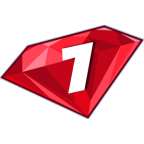
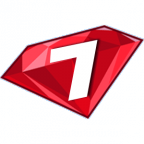
now a 7 day program!

Changed region(s): [[0.3333, 0.25, 0.6944, 0.7222]]

diff --git a/public/js/javascript.js b/public/js/javascript.js
@@ -1,7 +1,7 @@
 // remove the static text for search engines
 document.getElementById("static").style.display = "none";
 
-var sevenDayBootcamp;		// kept outside for console inspection
+var app;		// kept outside for console inspection
 
 $.fn.ready(function(){
 
@@ -13,7 +13,7 @@ $.fn.ready(function(){
     return false;
   }
 
-  sevenDayBootcamp = {
+  app = {
     appname: "Seven Day HTML/CSS Bootcamp",
     structure: "",
     style: "",
@@ -30,139 +30,92 @@ $.fn.ready(function(){
       },
     fn: {
      setStructure: function(_structure) {
-        sevenDayBootcamp.structure = _structure || sevenDayBootcamp.structure;
+        app.structure = _structure || app.structure;
       },
       setStyle: function(_style) {
-        sevenDayBootcamp.style = _style || sevenDayBootcamp.style;
+        app.style = _style || app.style;
       },
-        // sets sevenDayBootcamp props, fills editors, renders output
+        // sets app props, fills editors, renders output
       useStructureStyle: function(settings) {
         if (typeof settings !== "object") { return false; }
         if (!settings.structure || !settings.style) { return false; }
-        sevenDayBootcamp.fn.setStructure(settings.structure);
-        sevenDayBootcamp.fn.setStyle(settings.style);
-        sevenDayBootcamp.editors.structure.getSession().setValue(settings.structure);
-        sevenDayBootcamp.editors.style.getSession().setValue(settings.style);
+        app.fn.setStructure(settings.structure);
+        app.fn.setStyle(settings.style);
+        app.editors.structure.getSession().setValue(settings.structure);
+        app.editors.style.getSession().setValue(settings.style);
         return true;
       },
       renderOutput: function(sWhat){
-        sevenDayBootcamp.throttle.render = sevenDayBootcamp.throttle.render || setTimeout(function(){
+        app.throttle.render = app.throttle.render || setTimeout(function(){
           sWhat = sWhat || "all";
           if ((sWhat === "html") || (sWhat === "all")) {
-            sevenDayBootcamp.$.output.body.html(
-                sevenDayBootcamp.structure
+            app.$.output.body.html(
+                app.structure
                 );
-            var sTitle = sevenDayBootcamp.$.output.body.find("h1:first").text().trim();
-            document.title = sevenDayBootcamp.appname;
-            if (sTitle && sTitle !== sevenDayBootcamp.appname) { document.title +=  " - " + sTitle; }
+            var sTitle = app.$.output.body.find("h1:first").text().trim();
+            document.title = app.appname;
+            if (sTitle && sTitle !== app.appname) { document.title +=  " - " + sTitle; }
           }
           if ((sWhat === "style") || (sWhat === "all")) {
-            sevenDayBootcamp.$.output.head.html(
-                $("<style />").html(sevenDayBootcamp.style)
+            app.$.output.head.html(
+                $("<style />").html(app.style)
                 );
           }
-          sevenDayBootcamp.throttle.render = undefined;
+          app.throttle.render = undefined;
         }, 500);
       },
-      saveToLocal: function(){
+      saveToLocal: function(day){
         var obj = {
-          structure: sevenDayBootcamp.editors.structure.getSession().getValue(),
-          style: sevenDayBootcamp.editors.style.getSession().getValue()
+          structure: app.editors.structure.getSession().getValue(),
+          style: app.editors.style.getSession().getValue()
         };
-        localStorage.sevenDayBootcamp = JSON.stringify(obj);
-        return localStorage.sevenDayBootcamp;
+        localStorage.setItem(day, JSON.stringify(obj));
+        return localStorage.getItem(day);
       },
-      getLocal: function() {
-        if (localStorage.sevenDayBootcamp) {
-          sevenDayBootcamp.fn.useStructureStyle($.parseJSON(localStorage.sevenDayBootcamp));
+      getLocal: function(day) {
+        data = localStorage.getItem(day);
+        if (data) {
+          app.fn.useStructureStyle($.parseJSON(data));
           return true;
         }
         return false;
       },
-      getDefaults: function(){
-        // probably not the cleanest way to do this...
+      getData: function(day){
         var iMilli = +new Date(), def = {};
-        function areWeThereYet() {
+        function load() {
           if (def.structure && def.style) {
-            sevenDayBootcamp.fn.useStructureStyle(def);
+            app.fn.useStructureStyle(def);
           }
         }
-        $.get("defaults/structure.html?" + iMilli, function(resp) {
+        $.get("/data/"+day+".html?" + iMilli, function(resp) {
           def.structure = resp;
-          areWeThereYet();
+          load();
         }, "text");
-        $.get("defaults/style.css?" + iMilli, function(resp) {
+        $.get("/data/"+day+".css?" + iMilli, function(resp) {
           def.style = resp;
-          areWeThereYet();
+          load();
         }, "text");
         return true;
       },
-      reset: function(){
-        delete localStorage.sevenDayBootcamp;
-        sevenDayBootcamp.fn.getDefaults();
+      reset: function(day){
+        delete localStorage.getItem(day);
+        app.fn.getData(day);
       },
       exportUri: function(){
         // will open a data URI in a new window, some browsers may cut it off...
-        var sTitle = sevenDayBootcamp.$.output.body.find("h1:first").text().trim();
+        var sTitle = app.$.output.body.find("h1:first").text().trim();
         var sUrl = "data:text/html," +
           encodeURIComponent(
               (sTitle ? "<title>" + sTitle + "</title> " : "") +
-              "<body>" + sevenDayBootcamp.structure + "</body> " +
-              "<style>" + sevenDayBootcamp.style + "</style> " +
+              "<body>" + app.structure + "</body> " +
+              "<style>" + app.style + "</style> " +
               "<form action='" + document.location.protocol + "//" + document.location.host + document.location.pathname + "' method='get' style='display:none'>" + 
-              "<textarea name='structure'>" + sevenDayBootcamp.editors.structure.getSession().getValue() + "</textarea> " +
-              "<textarea name='style'>" + sevenDayBootcamp.editors.style.getSession().getValue() + "</textarea> " +
+              "<textarea name='structure'>" + app.editors.structure.getSession().getValue() + "</textarea> " +
+              "<textarea name='style'>" + app.editors.style.getSession().getValue() + "</textarea> " +
               "</form> " +
               "<script src='" + document.location.protocol + "//" + document.location.host + document.location.pathname + "js/external.js'></script>"
               );
         window.open(sUrl);
-      },
-      getFromUrl: function(){
-        // http://stackoverflow.com/questions/439463/how-to-get-get-and-post-variables-with-jquery
-        var params = (function(){
-          var qs = document.location.search.split("+").join(" ");
-          var params = {}, tokens, re = /[?&]?([^=]+)=([^&]*)/g;
-          while (tokens = re.exec(qs)) {
-            params[decodeURIComponent(tokens[1])] = decodeURIComponent(tokens[2]);
-          }
-          return params;
-        }());
-        if (!params.structure || !params.style) { return false; }
-        sevenDayBootcamp.fn.useStructureStyle(params);
-        // clean up URL
-        if (Modernizr.history) {
-          history.replaceState(null, null, document.location.pathname);
-        }
-        return true;
-      },
-      fileDragOver: function (evt) {
-        evt.stopPropagation();
-          evt.preventDefault();
-          $body.addClass("dropit");
-      },
-      fileDrop: function (evt) {
-        evt.stopPropagation();
-          evt.preventDefault();
-          var files = evt.dataTransfer.files;
-          for (var i = 0, f; f = files[i]; i++) {
-            var reader = new FileReader();
-              reader.onload = (function (theFile) {
-                return function (e) {
-                  // clean this up!
-                  if (theFile.name.indexOf(".html") > -1) {
-                    sevenDayBootcamp.editors.structure.getSession().setValue(e.target.result);
-                    sevenDayBootcamp.fn.setStructure(e.target.result);
-                  } else if (theFile.name.indexOf(".css") > -1) {
-                    sevenDayBootcamp.editors.style.getSession().setValue(e.target.result);
-                    sevenDayBootcamp.fn.setStyle(e.target.result);
-                  }
-                };
-              })(f);
-            reader.readAsText(f);
-          }
-        sevenDayBootcamp.fn.renderOutput();
-        sevenDayBootcamp.fn.saveToLocal();
-        $body.removeClass("dropit");
       }
     } // fn
   };
@@ -172,74 +125,72 @@ $.fn.ready(function(){
   { name: "structure", id: "preStructure", mode: require("ace/mode/html").Mode },
   { name: "style", id: "preStyle", mode: require("ace/mode/css").Mode }
   ];
+  var day = function() {
+    var d;
+    if(location.href.split("?").length>1) {
+      d = location.href.split("?")[1].split("=")[1];
+    }
+    return d || 1
+  }()
+
   $.each(editors, function (iEditor, editor) {
-    var $editor = sevenDayBootcamp.$[editor.name] = $("#" + editor.id);
+    var $editor = app.$[editor.name] = $("#" + editor.id);
     var oEditor = ace.edit(editor.id);
     oEditor.setTheme("ace/theme/twilight");
     oEditor.getSession().setMode(new editor.mode);
     oEditor.renderer.setShowGutter(false);
     oEditor.renderer.setShowPrintMargin(false);
     oEditor.getSession().setUseSoftTabs(true);
-    sevenDayBootcamp.editors[editor.name] = oEditor;
+    app.editors[editor.name] = oEditor;
     oEditor.on("focus", function(){ $editor.addClass("focus"); });
     oEditor.on("blur", function(){ $editor.removeClass("focus"); });
   });
 
-  // attempt: fill from URL, get localStorage, or load defaults; then render
-  if (!sevenDayBootcamp.fn.getFromUrl()) {
-    if (!sevenDayBootcamp.fn.getLocal()) {
-      sevenDayBootcamp.fn.getDefaults();
-    }
+  // attempt: fill from localStorage, or load data; then render
+  if (!app.fn.getLocal(day)) {
+    app.fn.getData(day);
   }
-  sevenDayBootcamp.fn.renderOutput();
+  app.fn.renderOutput();
 
   // bind change events (not perfect: doesn't know paste, deleting)
   // could be abstracted more
-  sevenDayBootcamp.editors.structure.getSession().on('change', function() {
-    sevenDayBootcamp.fn.setStructure(sevenDayBootcamp.editors.structure.getSession().getValue());
-    sevenDayBootcamp.fn.renderOutput("html");
-    sevenDayBootcamp.fn.saveToLocal();
+  app.editors.structure.getSession().on('change', function() {
+    app.fn.setStructure(app.editors.structure.getSession().getValue());
+    app.fn.renderOutput("html");
+    app.fn.saveToLocal();
   });
-  sevenDayBootcamp.editors.style.getSession().on('change', function() {
-    sevenDayBootcamp.fn.setStyle(sevenDayBootcamp.editors.style.getSession().getValue());
-    sevenDayBootcamp.fn.renderOutput("style");
-    sevenDayBootcamp.fn.saveToLocal();
+  app.editors.style.getSession().on('change', function() {
+    app.fn.setStyle(app.editors.style.getSession().getValue());
+    app.fn.renderOutput("style");
+    app.fn.saveToLocal();
   });
 
-  sevenDayBootcamp.$.nav = $("#nav");
+  app.$.nav = $("#nav");
 
   // view switcher and nav links
-  sevenDayBootcamp.$.nav
+  app.$.nav
     .on("click", ".inpView", function(){
-      var $checked = sevenDayBootcamp.$.nav.find("input:checked"), sVal = $checked.val();
+      var $checked = app.$.nav.find("input:checked"), sVal = $checked.val();
       $body.attr("role", sVal);
       localStorage.view = sVal;
-      $.each(sevenDayBootcamp.editors, function(i, editor) {
+      $.each(app.editors, function(i, editor) {
         editor.resize();
       });
     })
   .on("click", "#aReset", function(){
-    sevenDayBootcamp.fn.reset();
+    app.fn.reset();
     return false;
   })
   .on("click", "#aExport", function(){
-    sevenDayBootcamp.fn.exportUri();
+    app.fn.exportUri();
     return false;
   });
 
   // view in localStorage?
   if (localStorage.view) { $(".inpView[value='" + localStorage.view + "']").click(); }
 
-  // handle files getting dragged into document
-  if (Modernizr.file) {
-    $body[0].addEventListener('dragover', sevenDayBootcamp.fn.fileDragOver, false);
-      $body[0].addEventListener('drop', sevenDayBootcamp.fn.fileDrop, false);
-    sevenDayBootcamp.$.output.body[0].addEventListener('dragover', sevenDayBootcamp.fn.fileDragOver, false);
-      sevenDayBootcamp.$.output.body[0].addEventListener('drop', sevenDayBootcamp.fn.fileDrop, false);
-  }
-
   // force links in output out of iframe
-  sevenDayBootcamp.$.output.body.on("click", "a", function() {
+  app.$.output.body.on("click", "a", function() {
     var $a = $(this);
     if ($a.attr("href") && $a.attr("href") !== "#") {
       document.location = $a.attr("href");

diff --git a/public/css/style.css b/public/css/style.css
@@ -64,7 +64,7 @@ body.loading:before {
   height: 100%;
   width: 100%;
   color: #666;
-  background: #fff url("images/loading.gif") center center no-repeat;
+  background: #fff url("/images/loading.gif") center center no-repeat;
   text-align: center;
   z-index: 1000;
 }
